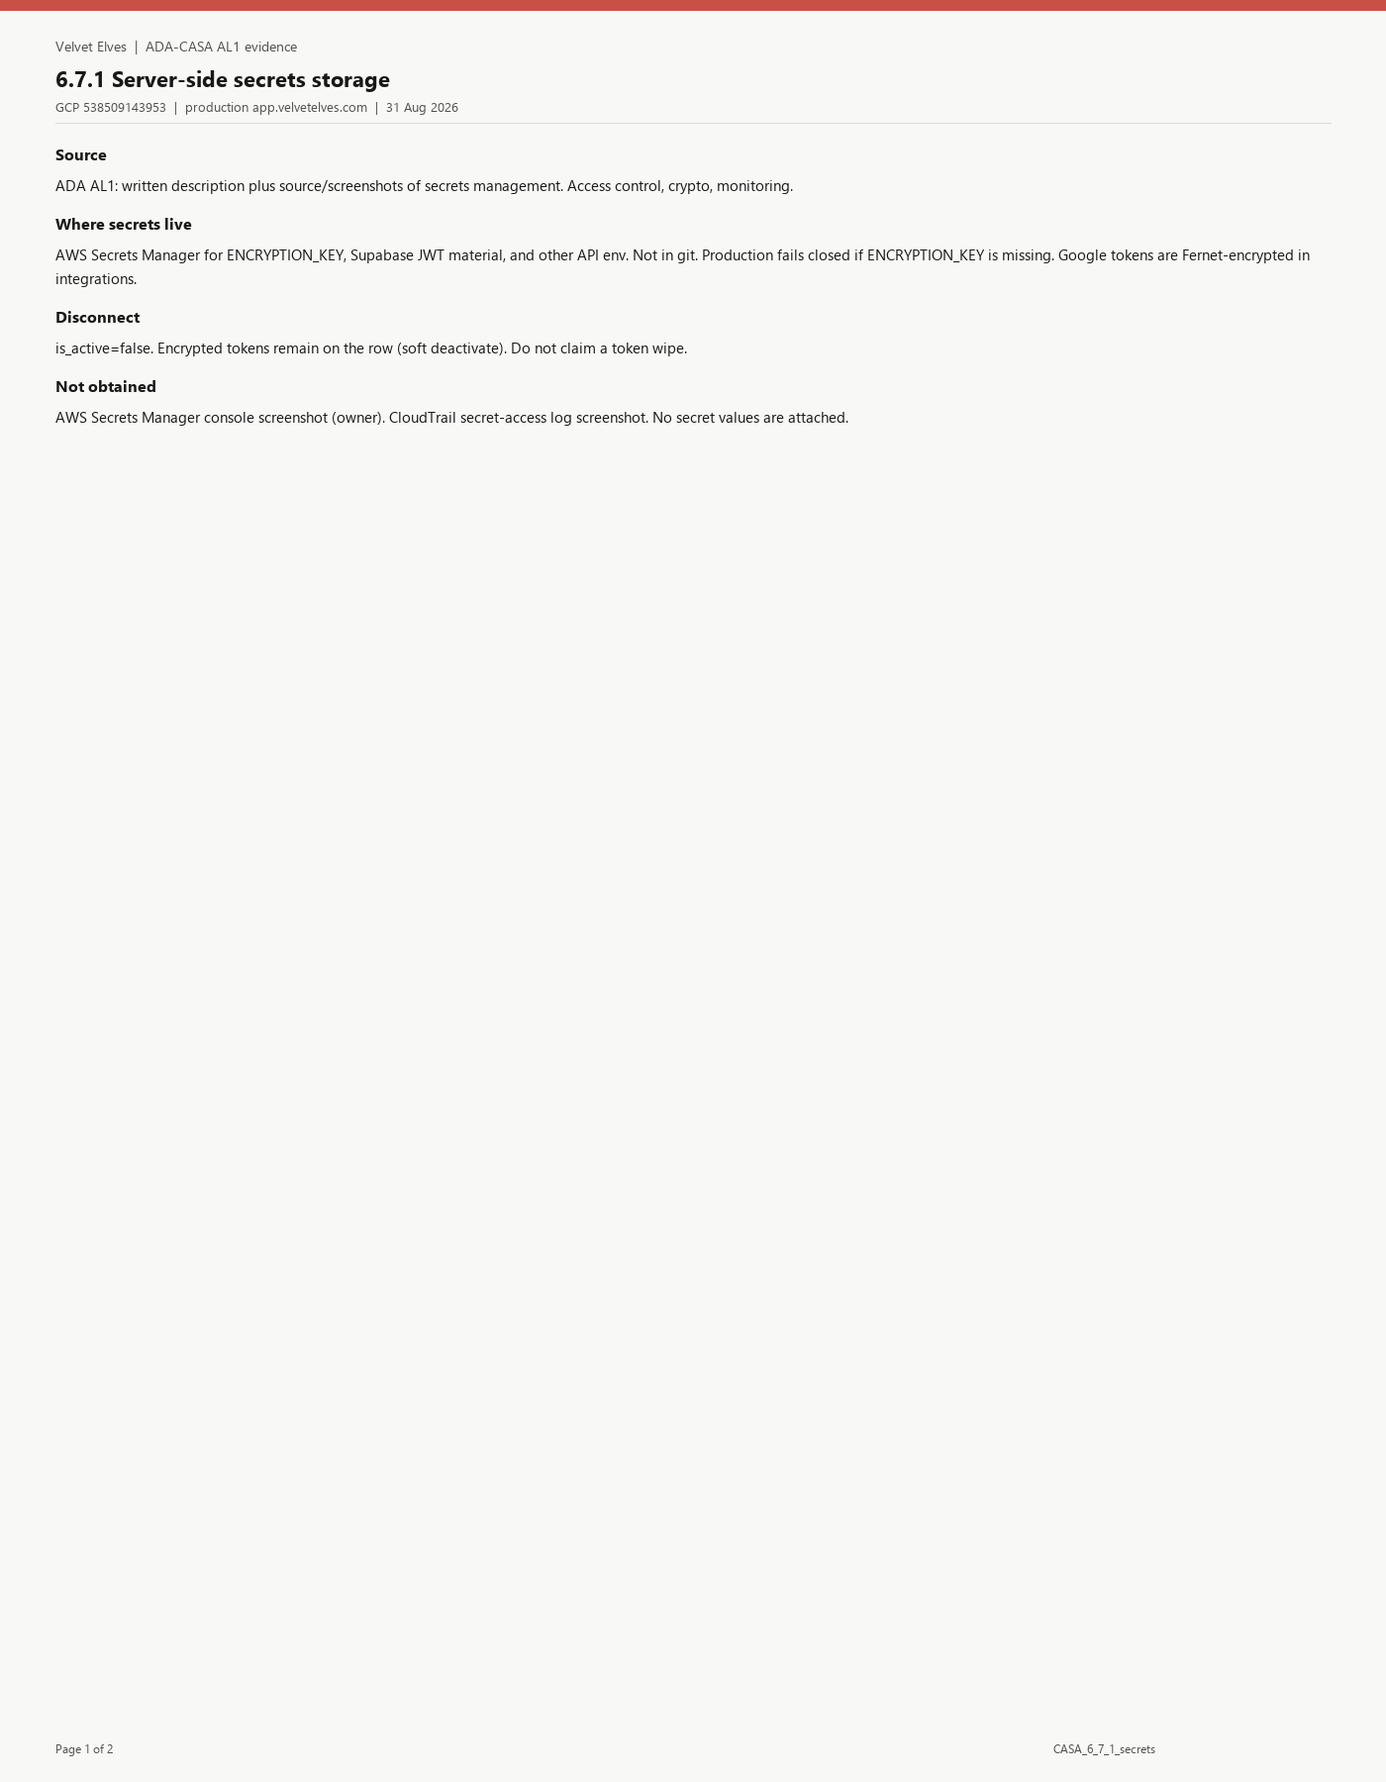
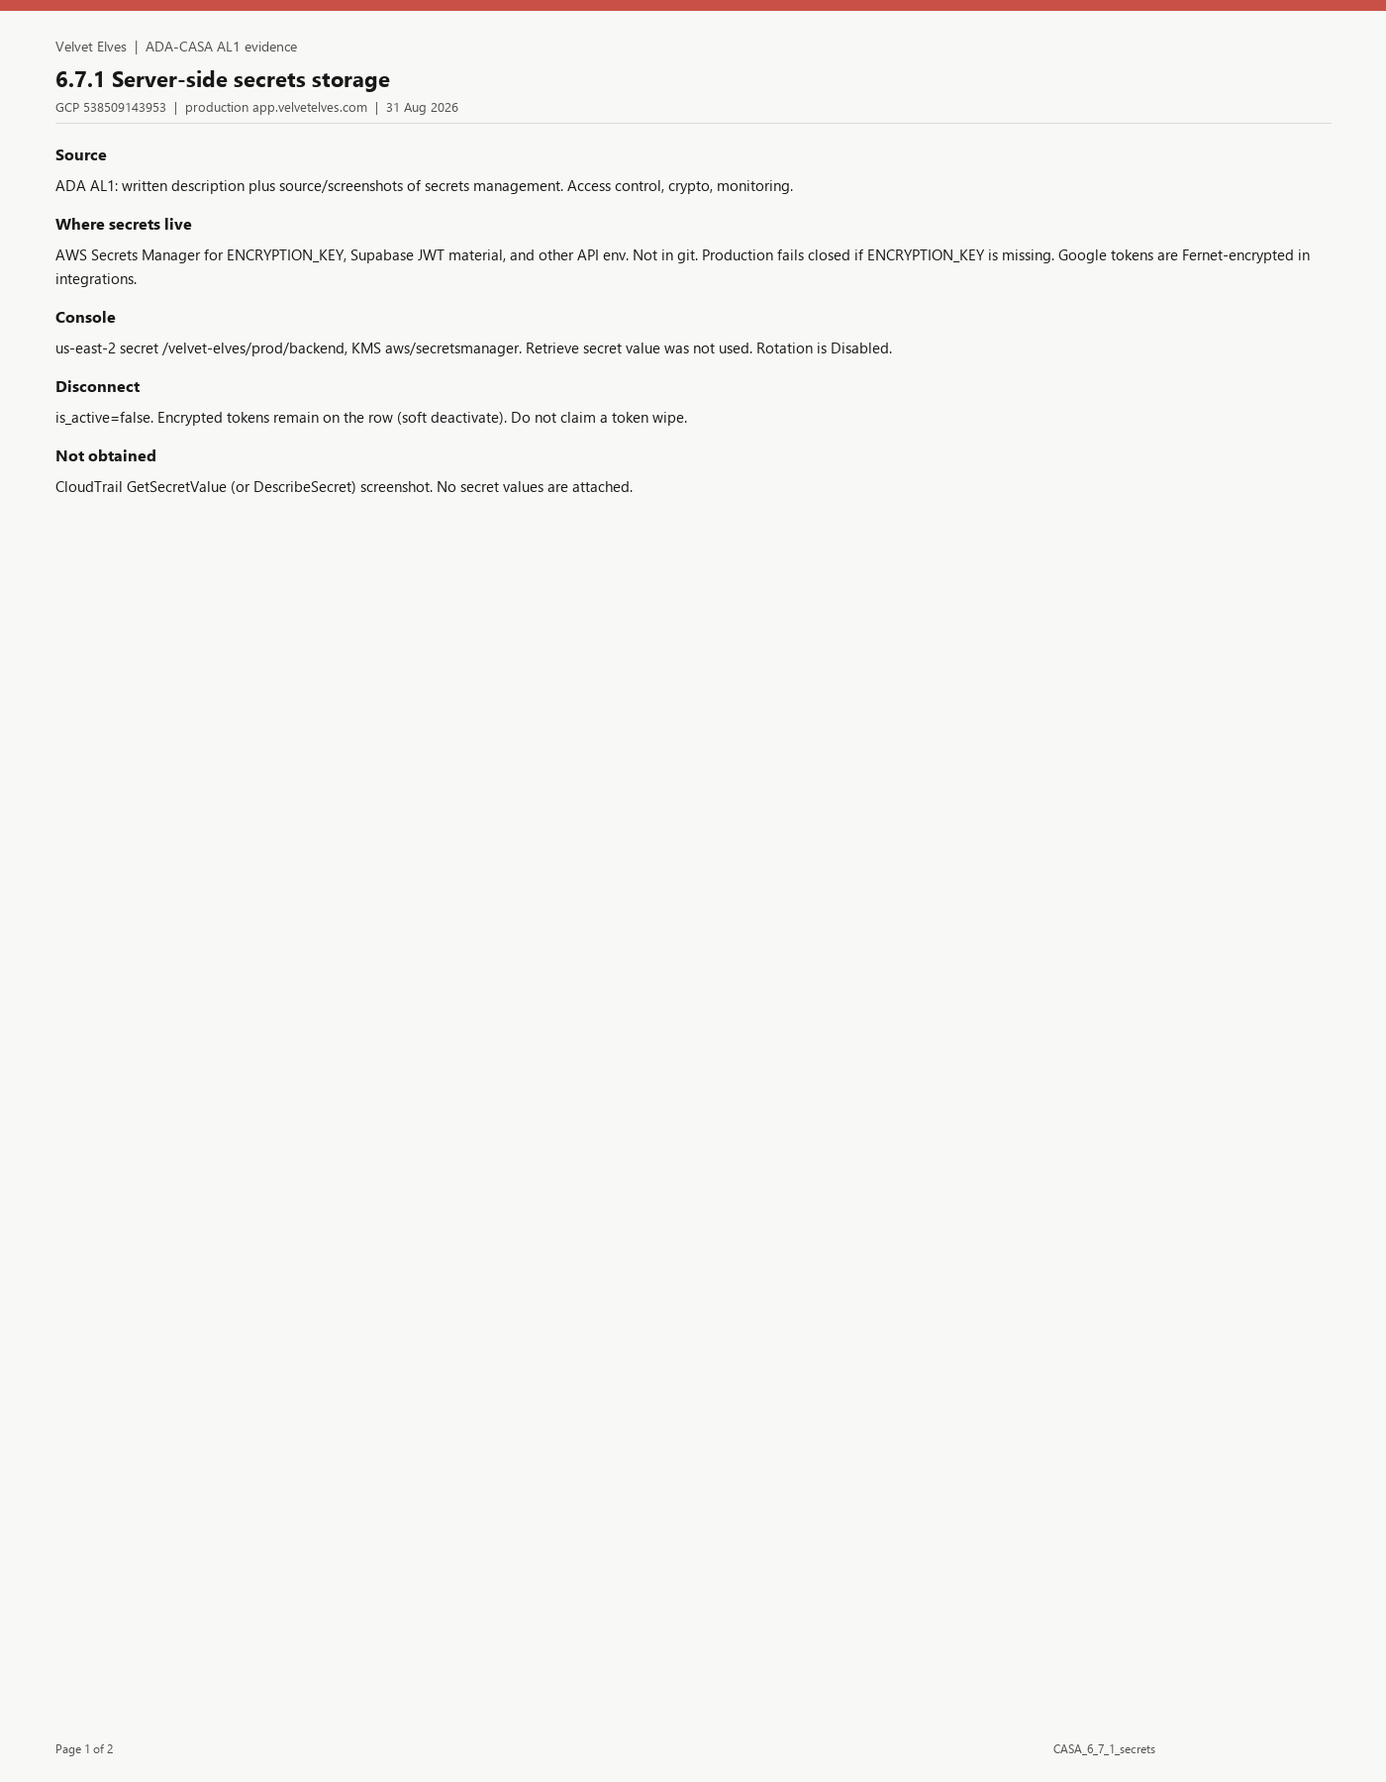
docs(casa): add Secrets Manager console shots for 6.7.1

Changed region(s): [[0.0307, 0.1867, 0.4607, 0.28]]

diff --git a/casa_auth_qa/append_casa_rest_pack.py b/casa_auth_qa/append_casa_rest_pack.py
@@ -405,9 +405,9 @@ The SPA stores velvet_elves_token and velvet_elves_refresh_token in localStorage
 
 **ADA:** Written description plus source/screenshots of secrets management.
 
-**Claimed:** Secrets Manager for ENCRYPTION_KEY; Fernet for Google tokens; production fail-closed; Disconnect soft-deactivate.
+**Claimed:** Secrets Manager for ENCRYPTION_KEY; Fernet for Google tokens; production fail-closed; Disconnect soft-deactivate. Console: `/velvet-elves/prod/backend`, KMS `aws/secretsmanager`, Retrieve secret value not used, rotation Disabled.
 
-**Missing:** AWS Secrets Manager console screenshot; CloudTrail secret-access log screenshot. No secret values attached (correct).
+**Missing:** CloudTrail secret-access log screenshot. No secret values attached (correct).
 
 ### Images
 
@@ -416,11 +416,13 @@ The SPA stores velvet_elves_token and velvet_elves_refresh_token in localStorage
 | [`tac_images/6.7.1/CASA_6_7_1_secrets_page1.png`](tac_images/6.7.1/CASA_6_7_1_secrets_page1.png) | Write-up |
 | [`tac_images/6.7.1/CASA_6_7_1_secrets_page2.png`](tac_images/6.7.1/CASA_6_7_1_secrets_page2.png) | AL1 mapping |
 | [`tac_images/6.7.1/CASA_6_7_1_secrets_code.png`](tac_images/6.7.1/CASA_6_7_1_secrets_code.png) | No secret values |
+| [`tac_images/6.7.1/CASA_6_7_1_sm.png`](tac_images/6.7.1/CASA_6_7_1_sm.png) | Secrets Manager overview; Retrieve not clicked |
+| [`tac_images/6.7.1/CASA_6_7_1_sm_rotation.png`](tac_images/6.7.1/CASA_6_7_1_sm_rotation.png) | Rotation Disabled |
 
 ### Portal comment
 
 ```
-API secrets including ENCRYPTION_KEY live in AWS Secrets Manager, not in git. Production fails to start if ENCRYPTION_KEY is missing. Google access and refresh tokens are Fernet-encrypted in the integrations table. Disconnect sets is_active false; ciphertext remains on the row (soft deactivate, not a wipe). The SPA does not hold those secrets. An AWS Secrets Manager console screenshot and a CloudTrail access-log screenshot were not taken. No secret values are attached.
+API secrets including ENCRYPTION_KEY live in AWS Secrets Manager, not in git. Production fails to start if ENCRYPTION_KEY is missing. Google access and refresh tokens are Fernet-encrypted in the integrations table. Disconnect sets is_active false; ciphertext remains on the row (soft deactivate, not a wipe). The SPA does not hold those secrets. AWS Secrets Manager console on 31 Aug 2026 shows secret /velvet-elves/prod/backend in us-east-2, encryption key aws/secretsmanager. Retrieve secret value was not used. Rotation is Disabled. A CloudTrail GetSecretValue screenshot was not taken. No secret values are attached.
 ```
 '''
 
@@ -452,7 +454,7 @@ def main():
 | 45 | 6.4.1 | Subdomain takeover | 4 | pack 6.4.1 |
 | 46 | 6.5.1 | No credential logs | 7 | pack 6.5.1 |
 | 47 | 6.6.1 | Logout clears storage | 7 | pack 6.6.1 |
-| 48 | 6.7.1 | Server secrets | 3 | pack 6.7.1 — no AWS console |
+| 48 | 6.7.1 | Server secrets | 5 | pack 6.7.1 — CloudTrail missing |
 
 ---"""
     text = text.replace(
@@ -542,7 +544,7 @@ def main():
         ),
         (
             "| 48 | 6.7.1 server secrets | `M9d_token_storage.md` | Secrets in AWS Secrets Manager Google tokens Fernet encrypted Disconnect is soft deactivate |",
-            "| 48 | 6.7.1 server secrets | `tac_images/6.7.1/` | Secrets Manager plus Fernet. Disconnect is soft deactivate. AWS console and CloudTrail shots NOT obtained. No secret values attached. |",
+            "| 48 | 6.7.1 server secrets | `tac_images/6.7.1/` — `CASA_6_7_1_secrets_page1.png`, `secrets_page2.png`, `secrets_code.png`, `sm.png`, `sm_rotation.png` | API secrets including ENCRYPTION_KEY live in AWS Secrets Manager, not in git. Production fails to start if ENCRYPTION_KEY is missing. Google access and refresh tokens are Fernet-encrypted in the integrations table. Disconnect sets is_active false; ciphertext remains on the row (soft deactivate, not a wipe). The SPA does not hold those secrets. AWS Secrets Manager console on 31 Aug 2026 shows secret /velvet-elves/prod/backend in us-east-2, encryption key aws/secretsmanager. Retrieve secret value was not used. Rotation is Disabled. A CloudTrail GetSecretValue screenshot was not taken. No secret values are attached. |",
         ),
     ]:
         if old not in tac:
@@ -569,7 +571,7 @@ def main():
         "| 45 | 6.4.1 | Verify S9 | M9a + S9 | [ ] |": "| 45 | 6.4.1 | Packed 31 Aug (live DNS). Route 53 console NOT captured | CASA_6_4_1 | [ ] |",
         "| 46 | 6.5.1 | Ready | M9g | [ ] |": "| 46 | 6.5.1 | Packed 31 Aug (code mask + staging CloudWatch login + Stripe checkout/sessions 200) | CASA_6_5_1 | [ ] |",
         "| 47 | 6.6.1 | Ready (verified 27 Aug) | comp | [ ] |": "| 47 | 6.6.1 | Packed 31 Aug (DevTools Application before/after Log Out; JWT values redacted) | CASA_6_6_1 | [ ] |",
-        "| 48 | 6.7.1 | Ready | M9d | [ ] |": "| 48 | 6.7.1 | Packed 31 Aug (Secrets Manager + Fernet). AWS console NOT captured | CASA_6_7_1 | [ ] |",
+        "| 48 | 6.7.1 | Ready | M9d | [ ] |": "| 48 | 6.7.1 | Packed 31 Aug (Secrets Manager console /velvet-elves/prod/backend, rotation Disabled). CloudTrail NOT captured | CASA_6_7_1 | [ ] |",
     }
     for old, new in replacements.items():
         if old not in rev:
@@ -589,7 +591,7 @@ def main():
 - **6.4.1** — Packed live DNS. Route 53 console NOT captured.
 - **6.5.1** — Packed code mask + staging CloudWatch login (user id) + Stripe checkout-session POST/200 (no PAN).
 - **6.6.1** — Packed. Staging DevTools Application: token keys present then gone; return_location remains. JWT values redacted.
-- **6.7.1** — Packed write-up. AWS Secrets Manager console NOT captured."""
+- **6.7.1** — Packed write-up + Secrets Manager console `/velvet-elves/prod/backend` (no values; rotation Disabled). CloudTrail GetSecretValue NOT captured."""
     if old not in gap:
         print("GAP miss block")
     else:

diff --git a/casa_auth_qa/render_casa_rest.py b/casa_auth_qa/render_casa_rest.py
@@ -425,8 +425,9 @@ logger.info("Login user id=%s", supabase_user_id)
         [
             ("Source", "ADA AL1: written description plus source/screenshots of secrets management. Access control, crypto, monitoring."),
             ("Where secrets live", "AWS Secrets Manager for ENCRYPTION_KEY, Supabase JWT material, and other API env. Not in git. Production fails closed if ENCRYPTION_KEY is missing. Google tokens are Fernet-encrypted in integrations."),
+            ("Console", "us-east-2 secret /velvet-elves/prod/backend, KMS aws/secretsmanager. Retrieve secret value was not used. Rotation is Disabled."),
             ("Disconnect", "is_active=false. Encrypted tokens remain on the row (soft deactivate). Do not claim a token wipe."),
-            ("Not obtained", "AWS Secrets Manager console screenshot (owner). CloudTrail secret-access log screenshot. No secret values are attached."),
+            ("Not obtained", "CloudTrail GetSecretValue (or DescribeSecret) screenshot. No secret values are attached."),
         ],
     )
     save_page2(
@@ -436,9 +437,9 @@ logger.info("Login user id=%s", supabase_user_id)
         [
             ("Access control", "ECS task role reads the secret; not in the SPA."),
             ("Crypto", "Fernet for Google tokens; Secrets Manager for the key."),
-            ("Monitoring", "AWS CloudTrail exists for the account; a sample screenshot was not taken."),
+            ("Monitoring", "AWS CloudTrail exists for the account; a GetSecretValue event screenshot was not taken."),
         ],
-        "Server secrets are in AWS Secrets Manager. Google tokens are Fernet-encrypted. Disconnect is soft deactivate. No secret values or AWS console shots are in this folder.",
+        "Server secrets are in AWS Secrets Manager secret /velvet-elves/prod/backend. Google tokens are Fernet-encrypted. Disconnect is soft deactivate. No secret values are in this folder.",
     )
     save_code(
         d,

diff --git a/CASA/TAC_ESOF_PORTAL_GUIDE.md b/CASA/TAC_ESOF_PORTAL_GUIDE.md
@@ -273,7 +273,7 @@ Comments (punctuation allowed) and files:
 | 45 | 6.4.1 subdomain takeover | `tac_images/6.4.1/` — `CASA_6_4_1_dns_page1.png`, `dns_page2.png`, `dns_code.png`, `dns.png`, `route53.png` | Live DNS on 31 Aug 2026: app.velvetelves.com and app.stage.velvetelves.com resolve to CloudFront addresses; api.prod.velvetelves.com and api.stage.velvetelves.com resolve to ALB addresses; help.velvetelves.com and velvetelves.com resolve. Route 53 hosted zone velvetelves.com shows app, app.stage, help, and help.stage as alias A/AAAA to CloudFront; api.prod as alias A to the prod API ALB; api.stage as CNAME to the stage API ALB. Underscore CNAMEs are ACM certificate validation at Amazon, not abandoned Heroku, GitHub, or S3 website endpoints. This filtered view does not include the zone apex row. WSTG-CONF-10 is AL2 and was not run. |
 | 46 | 6.5.1 do not log credentials | `tac_images/6.5.1/` — `CASA_6_5_1_logs_page1.png`, `logs_page2.png`, `logs_code.png`, `mask.png`, `login_log.png`, `payment_log.png`, `payment_request.png` | Login passwords are not written to the application logger. Gmail paths mask emails (local-part prefix plus ***). JSON logs include a request id, not the Authorization header. Card data is collected on Stripe Checkout; we store Stripe ids, not PAN or CVV. Staging CloudWatch log group /ecs/velvet-elves/stage/backend on 31 Aug 2026 recorded INFO Login user id=<uuid> with a request_id; the event has no password field and no Authorization header. The same log group after a staging Buy one deal checkout recorded stripe logger INFO POST https://api.stripe.com/v1/checkout/sessions and Stripe API response path=https://api.stripe.com/v1/checkout/sessions response_code=200. Those events have no PAN, CVV, or Stripe secret key. |
 | 47 | 6.6.1 clear browser storage on logout | `tac_images/6.6.1/` — `CASA_6_6_1_logout_page1.png`, `logout_page2.png`, `logout_code.png`, `after_logout.png`, `storage.png`, `devtools_before.png`, `devtools_after.png` | The SPA stores velvet_elves_token and velvet_elves_refresh_token in localStorage. Logout calls POST /users/logout (revokes the Supabase session) then clearTokens(), which removes both keys. Staging Chrome DevTools Application on 31 Aug 2026: those two keys are present while signed in (JWT values redacted in evidence) and gone after Log Out. Remaining keys include velvet_elves_return_location and a last_visit key. The browser is on /login. Google tokens are not in the browser. |
-| 48 | 6.7.1 server secrets | `tac_images/6.7.1/` | Secrets Manager plus Fernet. Disconnect is soft deactivate. AWS console and CloudTrail shots NOT obtained. No secret values attached. |
+| 48 | 6.7.1 server secrets | `tac_images/6.7.1/` — `CASA_6_7_1_secrets_page1.png`, `secrets_page2.png`, `secrets_code.png`, `sm.png`, `sm_rotation.png` | API secrets including ENCRYPTION_KEY live in AWS Secrets Manager, not in git. Production fails to start if ENCRYPTION_KEY is missing. Google access and refresh tokens are Fernet-encrypted in the integrations table. Disconnect sets is_active false; ciphertext remains on the row (soft deactivate, not a wipe). The SPA does not hold those secrets. AWS Secrets Manager console on 31 Aug 2026 shows secret /velvet-elves/prod/backend in us-east-2, encryption key aws/secretsmanager. Retrieve secret value was not used. Rotation is Disabled. A CloudTrail GetSecretValue screenshot was not taken. No secret values are attached. |
 
 File paths under `casa_al1_evidence/m9/` except `DAST_SUMMARY.md` / `SAST_SUMMARY.md` / `DEPS_SUMMARY.md` in `casa_al1_evidence/2026-08-21/`. AI screenshot `openai-data-controls.png` is extra for any secrets/subprocessor question; do not call it ZDR.
 

diff --git a/casa_al1_evidence/m9/CASA_PORTAL_PACK.md b/casa_al1_evidence/m9/CASA_PORTAL_PACK.md
@@ -73,7 +73,7 @@ Global do-not-claim (these rows): HttpOnly session cookies; MFA default for **al
 | 45 | 6.4.1 | Subdomain takeover | 5 | pack 6.4.1 |
 | 46 | 6.5.1 | No credential logs | 7 | pack 6.5.1 |
 | 47 | 6.6.1 | Logout clears storage | 7 | pack 6.6.1 |
-| 48 | 6.7.1 | Server secrets | 3 | pack 6.7.1 — no AWS console |
+| 48 | 6.7.1 | Server secrets | 5 | pack 6.7.1 — CloudTrail missing |
 
 ---
 
@@ -1621,9 +1621,9 @@ The SPA stores velvet_elves_token and velvet_elves_refresh_token in localStorage
 
 **ADA:** Written description plus source/screenshots of secrets management.
 
-**Claimed:** Secrets Manager for ENCRYPTION_KEY; Fernet for Google tokens; production fail-closed; Disconnect soft-deactivate.
+**Claimed:** Secrets Manager for ENCRYPTION_KEY; Fernet for Google tokens; production fail-closed; Disconnect soft-deactivate. Console: `/velvet-elves/prod/backend`, KMS `aws/secretsmanager`, Retrieve secret value not used, rotation Disabled.
 
-**Missing:** AWS Secrets Manager console screenshot; CloudTrail secret-access log screenshot. No secret values attached (correct).
+**Missing:** CloudTrail secret-access log screenshot. No secret values attached (correct).
 
 ### Images
 
@@ -1632,11 +1632,13 @@ The SPA stores velvet_elves_token and velvet_elves_refresh_token in localStorage
 | [`tac_images/6.7.1/CASA_6_7_1_secrets_page1.png`](tac_images/6.7.1/CASA_6_7_1_secrets_page1.png) | Write-up |
 | [`tac_images/6.7.1/CASA_6_7_1_secrets_page2.png`](tac_images/6.7.1/CASA_6_7_1_secrets_page2.png) | AL1 mapping |
 | [`tac_images/6.7.1/CASA_6_7_1_secrets_code.png`](tac_images/6.7.1/CASA_6_7_1_secrets_code.png) | No secret values |
+| [`tac_images/6.7.1/CASA_6_7_1_sm.png`](tac_images/6.7.1/CASA_6_7_1_sm.png) | Secrets Manager overview; Retrieve not clicked |
+| [`tac_images/6.7.1/CASA_6_7_1_sm_rotation.png`](tac_images/6.7.1/CASA_6_7_1_sm_rotation.png) | Rotation Disabled |
 
 ### Portal comment
 
 ```
-API secrets including ENCRYPTION_KEY live in AWS Secrets Manager, not in git. Production fails to start if ENCRYPTION_KEY is missing. Google access and refresh tokens are Fernet-encrypted in the integrations table. Disconnect sets is_active false; ciphertext remains on the row (soft deactivate, not a wipe). The SPA does not hold those secrets. An AWS Secrets Manager console screenshot and a CloudTrail access-log screenshot were not taken. No secret values are attached.
+API secrets including ENCRYPTION_KEY live in AWS Secrets Manager, not in git. Production fails to start if ENCRYPTION_KEY is missing. Google access and refresh tokens are Fernet-encrypted in the integrations table. Disconnect sets is_active false; ciphertext remains on the row (soft deactivate, not a wipe). The SPA does not hold those secrets. AWS Secrets Manager console on 31 Aug 2026 shows secret /velvet-elves/prod/backend in us-east-2, encryption key aws/secretsmanager. Retrieve secret value was not used. Rotation is Disabled. A CloudTrail GetSecretValue screenshot was not taken. No secret values are attached.
 ```
 
 ## Regeneration

diff --git a/CASA/MISSING_SCREENSHOTS_CHECKLIST.md b/CASA/MISSING_SCREENSHOTS_CHECKLIST.md
@@ -14,7 +14,7 @@ Already on disk (do **not** recapture): SSL Labs A+ (4.1.1 / 4.1.2), Supabase Ra
 
 ## How to use this file
 
-1. Work **by ID**, top to bottom in the index. **6.7.1 is next** — Secrets Manager console and CloudTrail `GetSecretValue` (no secret values).
+1. Work **by ID**, top to bottom in the index. **6.7.1 CloudTrail** is next — `GetSecretValue` or `DescribeSecret`, no secret values.
 2. Follow that ID’s **Capture** steps. If the frame does not match **Must show**, do not save it.
 3. Save as PNG. Suggested names are below. Folder: `casa_al1_evidence/m9/tac_images/<id>/`.
 4. Tick the checkbox here. Add the file to that row’s image table in `CASA_PORTAL_PACK.md` and drop it from **Missing**.
@@ -49,8 +49,8 @@ Priority: **P0** ADA-named samples · **P1** owner consoles ADA asks for · **P2
 | P0 | [6.5.1](#651--do-not-log-credentials-or-payment-details) | Login log sample | Owner — **done 31 Aug** | 7 |
 | P0 | [6.5.1](#651--do-not-log-credentials-or-payment-details) | Payment log sample | Owner — **done 31 Aug** | 7 |
 | P1 | [6.4.1](#641--subdomain-takeover) | Route 53 hosted zone | Owner — **done 31 Aug** | 5 |
-| P1 | [6.7.1](#671--server-side-secrets) | Secrets Manager console | Owner | 3 |
-| P1 | [6.7.1](#671--server-side-secrets) | CloudTrail secret-access | Owner | 3 |
+| P1 | [6.7.1](#671--server-side-secrets) | Secrets Manager console | Owner — **done 31 Aug** | 5 |
+| P1 | [6.7.1](#671--server-side-secrets) | CloudTrail secret-access | Owner | 5 |
 | P1 | [6.1.1](#611--no-known-exploitable-components) | Production image scan | Owner — **done 31 Aug** (linux/amd64 child of prod-latest) | 7 |
 | P1 | [6.2.1](#621--debug-off-in-production) | ECS env (`APP_DEBUG`) | Owner — **done 31 Aug** | 6 |
 | P2 | [5.1.4](#514--template-injection) | Live SSTI probe | Staging API — **done 31 Aug** | 5 |
@@ -373,9 +373,9 @@ Packed 31 Aug 2026: staging Insights `filter @message like /Stripe/` after Buy o
 
 ## 6.7.1 — Server-side secrets
 
-**Already packed:** write-up + code comments (no secret values). Disconnect is **soft deactivate** (ciphertext remains).
+**Already packed:** write-up + code comments (no secret values). Disconnect is **soft deactivate** (ciphertext remains). Secrets Manager overview + rotation (Disabled); Retrieve secret value was not used.
 
-**Still missing:** Secrets Manager console + CloudTrail access log.
+**Still missing:** CloudTrail access log.
 
 ### A. Secrets Manager
 
@@ -387,7 +387,7 @@ Packed 31 Aug 2026: staging Insights `filter @message like /Stripe/` after Buy o
 **Must not show:** plaintext `ENCRYPTION_KEY`, JWT secret, provider keys.  
 **Save as:** `tac_images/6.7.1/CASA_6_7_1_sm.png`
 
-- [ ] Secrets Manager console PNG (no values)
+- [x] Secrets Manager console PNG (no values) — `CASA_6_7_1_sm.png`, `CASA_6_7_1_sm_rotation.png`
 
 ### B. CloudTrail
 

diff --git a/casa_al1_evidence/m9/GAP_ANALYSIS_48_CHECKS.md b/casa_al1_evidence/m9/GAP_ANALYSIS_48_CHECKS.md
@@ -54,7 +54,7 @@
 - **6.4.1** — Packed live DNS + Route 53 console (app/help CloudFront, api ALB). Filtered view does not include zone apex.
 - **6.5.1** — Packed code mask + staging CloudWatch login (user id) + Stripe checkout-session POST/200 (no PAN).
 - **6.6.1** — Packed. Staging DevTools Application: token keys present then gone; return_location remains. JWT values redacted.
-- **6.7.1** — Packed write-up. AWS Secrets Manager console NOT captured.
+- **6.7.1** — Packed write-up + Secrets Manager console `/velvet-elves/prod/backend` (no values; rotation Disabled). CloudTrail GetSecretValue NOT captured.
 
 ## Recommended sequence (updated 27 Aug — code work done)
 

diff --git a/CASA/CASA_48_CHECKS_REVISION_PLAN.md b/CASA/CASA_48_CHECKS_REVISION_PLAN.md
@@ -192,4 +192,4 @@ Verdicts from `GAP_ANALYSIS_48_CHECKS.md`. Comments: §7 of the portal guide.
 | 45 | 6.4.1 | Packed 31 Aug (live DNS + Route 53 app/api/help to CloudFront/ALB) | CASA_6_4_1 | [ ] |
 | 46 | 6.5.1 | Packed 31 Aug (code mask + staging CloudWatch login + Stripe checkout/sessions 200) | CASA_6_5_1 | [ ] |
 | 47 | 6.6.1 | Packed 31 Aug (DevTools Application before/after Log Out; JWT values redacted) | CASA_6_6_1 | [ ] |
-| 48 | 6.7.1 | Packed 31 Aug (Secrets Manager + Fernet). AWS console NOT captured | CASA_6_7_1 | [ ] |
+| 48 | 6.7.1 | Packed 31 Aug (Secrets Manager console /velvet-elves/prod/backend, rotation Disabled). CloudTrail NOT captured | CASA_6_7_1 | [ ] |
